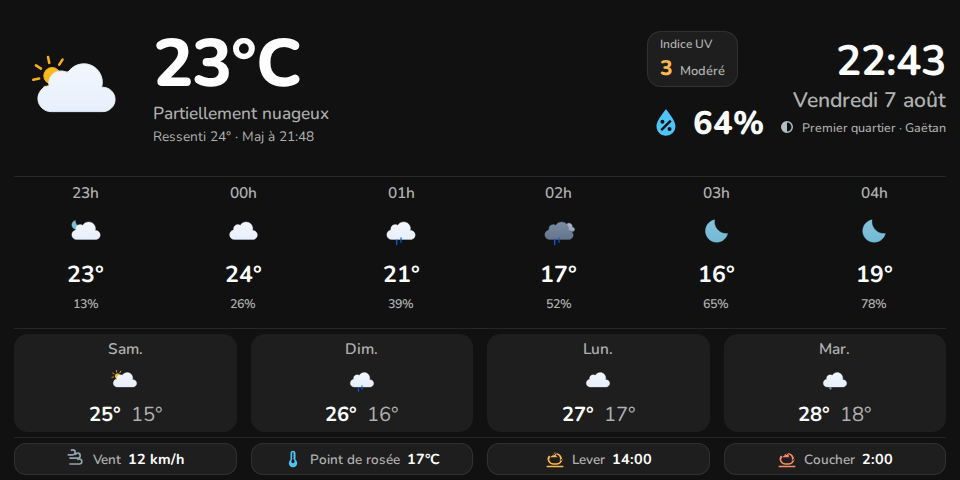
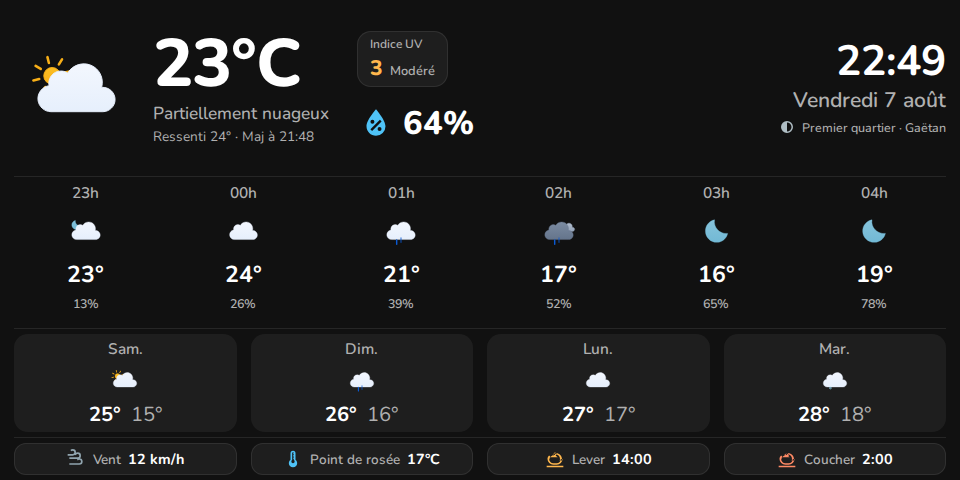
fix: UV/humidity group drifted right, current-main shouldn't flex-grow
.current-main avait flex: 1 1 auto, donc sa boîte s'étirait pour
remplir toute la largeur de .current-info (désormais une ligne flex),
poussant .uv-group loin à droite de la température au lieu de rester
juste à côté. Repassé à flex: 0 1 auto (largeur naturelle du texte
temp/condition/météo uniquement).

diff --git a/dist/echo-weather-card.js b/dist/echo-weather-card.js
@@ -25,14 +25,14 @@ let we = class {
     return this.cssText;
   }
 };
-const Ue = (s) => new we(typeof s == "string" ? s : s + "", void 0, Q), Re = (s, ...e) => {
+const Ue = (s) => new we(typeof s == "string" ? s : s + "", void 0, Q), qe = (s, ...e) => {
   const t = s.length === 1 ? s[0] : e.reduce((i, n, r) => i + ((o) => {
     if (o._$cssResult$ === !0) return o.cssText;
     if (typeof o == "number") return o;
     throw Error("Value passed to 'css' function must be a 'css' function result: " + o + ". Use 'unsafeCSS' to pass non-literal values, but take care to ensure page security.");
   })(n) + s[r + 1], s[0]);
   return new we(t, s, Q);
-}, qe = (s, e) => {
+}, Re = (s, e) => {
   if (X) s.adoptedStyleSheets = e.map((t) => t instanceof CSSStyleSheet ? t : t.styleSheet);
   else for (const t of e) {
     const i = document.createElement("style"), n = H.litNonce;
@@ -167,7 +167,7 @@ let A = class extends HTMLElement {
   createRenderRoot() {
     var t;
     const e = (t = this.shadowRoot) != null ? t : this.attachShadow(this.constructor.shadowRootOptions);
-    return qe(e, this.constructor.elementStyles), e;
+    return Re(e, this.constructor.elementStyles), e;
   }
   connectedCallback() {
     var e, t;
@@ -375,7 +375,7 @@ class je {
     for (; a !== void 0; ) {
       if (o === a.index) {
         let d;
-        a.type === 2 ? d = new R(r, r.nextSibling, this, e) : a.type === 1 ? d = new a.ctor(r, a.name, a.strings, this, e) : a.type === 6 && (d = new Ze(r, this, e)), this._$AV.push(d), a = i[++l];
+        a.type === 2 ? d = new q(r, r.nextSibling, this, e) : a.type === 1 ? d = new a.ctor(r, a.name, a.strings, this, e) : a.type === 6 && (d = new Ze(r, this, e)), this._$AV.push(d), a = i[++l];
       }
       o !== (a == null ? void 0 : a.index) && (r = b.nextNode(), o++);
     }
@@ -386,7 +386,7 @@ class je {
     for (const i of this._$AV) i !== void 0 && (i.strings !== void 0 ? (i._$AI(e, i, t), t += i.strings.length - 2) : i._$AI(e[t])), t++;
   }
 }
-class R {
+class q {
   get _$AU() {
     var e, t;
     return (t = (e = this._$AM) == null ? void 0 : e._$AU) != null ? t : this._$Cv;
@@ -435,7 +435,7 @@ class R {
     ee(this._$AH) || (this._$AH = [], this._$AR());
     const t = this._$AH;
     let i, n = 0;
-    for (const r of e) n === t.length ? t.push(i = new R(this.O(z()), this.O(z()), this, this.options)) : i = t[n], i._$AI(r), n++;
+    for (const r of e) n === t.length ? t.push(i = new q(this.O(z()), this.O(z()), this, this.options)) : i = t[n], i._$AI(r), n++;
     n < t.length && (this._$AR(i && i._$AB.nextSibling, n), t.length = n);
   }
   _$AR(e = this._$AA.nextSibling, t) {
@@ -519,14 +519,14 @@ class Ze {
 }
 const G = M.litHtmlPolyfillSupport;
 var ye;
-G == null || G(U, R), ((ye = M.litHtmlVersions) != null ? ye : M.litHtmlVersions = []).push("3.3.3");
+G == null || G(U, q), ((ye = M.litHtmlVersions) != null ? ye : M.litHtmlVersions = []).push("3.3.3");
 const Ke = (s, e, t) => {
   var r, o;
   const i = (r = t == null ? void 0 : t.renderBefore) != null ? r : e;
   let n = i._$litPart$;
   if (n === void 0) {
     const l = (o = t == null ? void 0 : t.renderBefore) != null ? o : null;
-    i._$litPart$ = n = new R(e.insertBefore(z(), l), l, void 0, t != null ? t : {});
+    i._$litPart$ = n = new q(e.insertBefore(z(), l), l, void 0, t != null ? t : {});
   }
   return n._$AI(s), n;
 };
@@ -1178,8 +1178,8 @@ class K extends P {
   _renderCurrent(e, t, i) {
     const n = V(e.state, this._isNight()), r = W(n, this._config.icons), o = Y(this._hass, e.state), l = e.attributes.temperature, a = e.attributes.temperature_unit || "°C", h = e.attributes.apparent_temperature, d = e.attributes.humidity, u = e.last_updated ? new Date(e.last_updated) : null, m = [];
     this._config.show_feels_like && h != null && m.push(`Ressenti ${Math.round(h)}°`), this._config.show_last_updated && u && m.push(`Maj à ${k(u, t, i)}`);
-    const _ = this._config.uv_entity && this._hass.states[this._config.uv_entity], v = _ && !["unknown", "unavailable"].includes(_.state), te = this._config.show_humidity && d != null, Pe = this._config.show_clock || this._config.show_date, L = /* @__PURE__ */ new Date(), ie = this._config.show_date ? ht(L) : null, B = this._config.show_moon && this._hass.states[this._config.moon_entity || "sensor.moon_phase"], q = B && !["unknown", "unavailable"].includes(B.state) ? ut(B.state) : null, N = [];
-    return q && N.push(q.label), ie && N.push(ie), p`
+    const _ = this._config.uv_entity && this._hass.states[this._config.uv_entity], v = _ && !["unknown", "unavailable"].includes(_.state), te = this._config.show_humidity && d != null, Pe = this._config.show_clock || this._config.show_date, L = /* @__PURE__ */ new Date(), ie = this._config.show_date ? ht(L) : null, B = this._config.show_moon && this._hass.states[this._config.moon_entity || "sensor.moon_phase"], R = B && !["unknown", "unavailable"].includes(B.state) ? ut(B.state) : null, N = [];
+    return R && N.push(R.label), ie && N.push(ie), p`
       <div class="current">
         <img class="current-icon" src=${r} alt=${o} />
         <div class="current-info">
@@ -1213,9 +1213,9 @@ class K extends P {
                         ${st(L, t)}
                       </div>` : c}
                   ${N.length ? p`<div class="moon-line">
-                        ${q ? p`<ha-icon
+                        ${R ? p`<ha-icon
                               class="moon-icon"
-                              icon=${q.icon}
+                              icon=${R.icon}
                             ></ha-icon>` : c}
                         <span>${N.join(" · ")}</span>
                       </div>` : c}
@@ -1355,7 +1355,7 @@ I(K, "properties", {
   _config: { state: !0 },
   _hourly: { state: !0 },
   _daily: { state: !0 }
-}), I(K, "styles", Re`
+}), I(K, "styles", qe`
     /* container-type permet des tailles fluides (clamp + cqw) qui suivent
        la taille réelle du composant plutôt que le viewport — utile dans un
        conteneur View Assist dont la taille n'est pas celle de l'écran. */
@@ -1457,7 +1457,11 @@ I(K, "properties", {
       display: flex;
       flex-direction: column;
       min-width: 0;
-      flex: 1 1 auto;
+      /* Pas de flex-grow : ne prend que sa largeur naturelle (le texte
+         temp/condition/météo), sinon la boîte s'étire et pousse le
+         groupe UV/humidité loin à droite au lieu de rester juste à
+         côté de la température. */
+      flex: 0 1 auto;
     }
     .current-condition {
       color: var(--_secondary-color);

diff --git a/src/echo-weather-card.js b/src/echo-weather-card.js
@@ -513,7 +513,11 @@ class EchoWeatherCard extends LitElement {
       display: flex;
       flex-direction: column;
       min-width: 0;
-      flex: 1 1 auto;
+      /* Pas de flex-grow : ne prend que sa largeur naturelle (le texte
+         temp/condition/météo), sinon la boîte s'étire et pousse le
+         groupe UV/humidité loin à droite au lieu de rester juste à
+         côté de la température. */
+      flex: 0 1 auto;
     }
     .current-condition {
       color: var(--_secondary-color);
